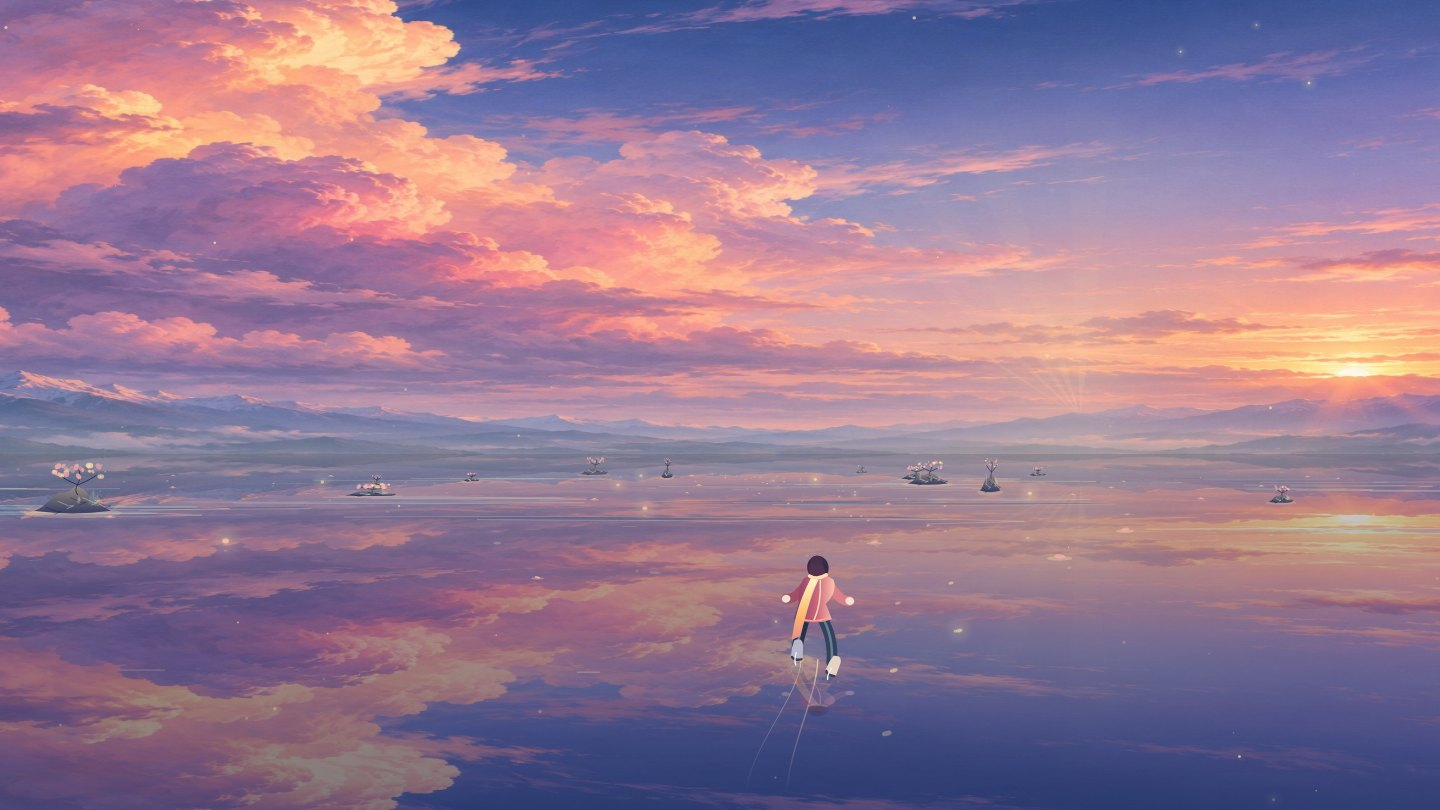
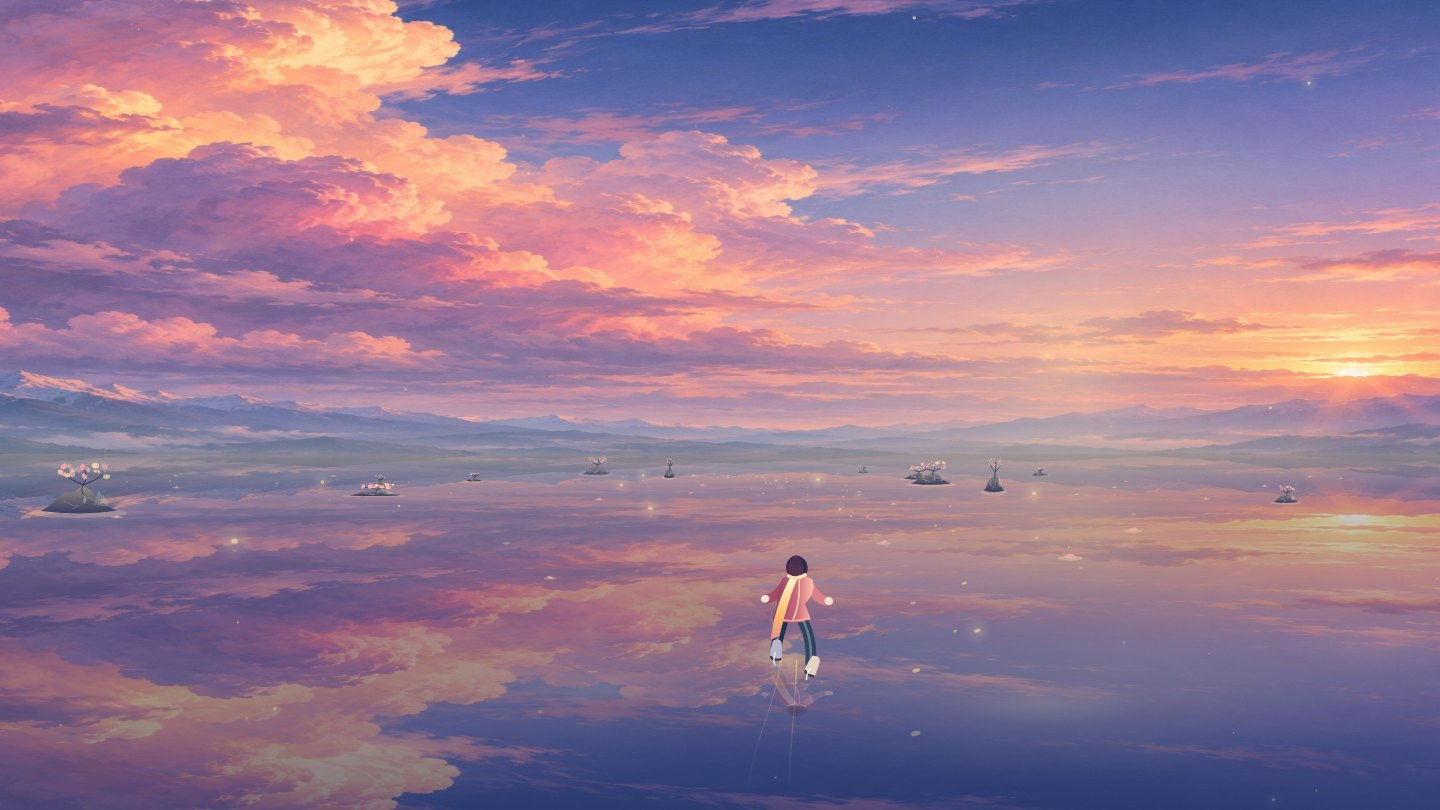
Soften steering and layer the ice, fog and aurora

diff --git a/index.html b/index.html
@@ -357,7 +357,9 @@ function ridge(c,w,h,p,layer) {
   const gradient=c.createLinearGradient(0,h*(1-depth*1.4),0,h);
   gradient.addColorStop(0,rgba(blend(p.hills,p.line,.56-layer*.17),1));
   gradient.addColorStop(1,rgba(blend(p.hills,p.line,.78-layer*.19),1));
+  c.globalAlpha=.57+layer*.06;
   c.fillStyle=gradient;c.fill();
+  c.globalAlpha=1;
 }
 function paintSky(p) {
   const b=document.createElement("canvas"), w=b.width=sky.width, h=b.height=sky.height, c=b.getContext("2d");
@@ -385,43 +387,51 @@ function paintSky(p) {
     }
     skyDetail(c,w,h,p);
     for(let i=0;i<3;i++) ridge(c,w,h,p,i);
+    for(let i=0;i<10;i++){
+      const x=w*hash(i+320+p.seed), y=h*(.81+hash(i+621)*.20), r=w*(.12+hash(i+312)*.21);
+      c.save();c.translate(x,y);c.scale(1,.10+hash(i+901)*.14);
+      bloom(c,0,0,r,i%2?p.light:p.cloud,.19+hash(i+11)*.13);c.restore();
+    }
   }
   return b;
 }
 function drawCached(b, alpha){
   if(!b||alpha<=0)return;
   sk.globalAlpha=alpha;
-  const shift=Math.sin(position*.0011)*sky.width*.105;
+  const shift=-position*sky.width*.00013;
   sk.drawImage(b,-sky.width*.12+shift,0,sky.width*1.24,sky.height);
   sk.globalAlpha=1;
 }
+let auroraTextures;
 function nightElements(p,a){
   if(a<=0 || (p.index!==1 && p.index!==3)) return;
   const w=sky.width,h=sky.height;
   for(let i=0;i<120;i++){
-    const x=wrap(hash(i*3+p.seed)*w-position*.11,w),y=hash(i*3+1)*h*.78;
+    const x=wrap(hash(i*3+p.seed)*w-position*.027,w),y=hash(i*3+1)*h*.78;
     const light=(.27+.65*Math.pow(.5+.5*Math.sin(t*(.34+hash(i)*.75)+i),3))*a;
     ellipse(sk,x,y,.45+hash(i+10)*1.15,.45+hash(i+10)*1.15,rgba(p.light,light));
   }
   if(p.index===1){
     sk.globalCompositeOperation="screen";
+    auroraTextures??=[[99,237,191],[171,116,246],[104,184,248]].map(color=>{
+      const texture=document.createElement("canvas");
+      texture.width=texture.height=128;
+      bloom(texture.getContext("2d"),64,64,64,color,1);
+      return texture;
+    });
     for(let band=0;band<3;band++){
-      const gx=sk.createLinearGradient(0,h*.07,0,h*.64);
-      gx.addColorStop(0,rgba(p.light,0));
-      gx.addColorStop(.46,rgba(band===1?[135,112,255]:[95,255,188],.31*a));
-      gx.addColorStop(.8,rgba([102,236,218],.12*a));gx.addColorStop(1,rgba(p.light,0));
-      sk.fillStyle=gx;sk.beginPath();
-      for(let x=0;x<=w+12;x+=12){
-        const y=h*(.18+band*.06+.09*Math.sin(x/w*6+t*.18+band)+.04*Math.sin(x/w*14-t*.17));
-        if(x===0)sk.moveTo(x,y);else sk.lineTo(x,y);
+      const steps=34, height=h*(.103+band*.018);
+      for(let i=0;i<=steps;i++){
+        const u=i/steps, x=w*u;
+        const phase=u*6.8+t*.15+band*1.5;
+        const y=h*(.23+band*.055+.105*Math.sin(phase)+.043*Math.sin(u*13-t*.12+band));
+        const shimmer=.57+.43*Math.sin(u*21+band+t*.21)**2;
+        const radius=w*(.057+hash(i+band*13)*.019);
+        sk.globalAlpha=a*shimmer*.24;
+        sk.drawImage(auroraTextures[band],x-radius,y-height,radius*2,height*2);
       }
-      for(let x=Math.ceil(w/12)*12;x>=0;x-=12){
-        const y=h*(.33+band*.06+.12*Math.sin(x/w*6+t*.18+band)+.04*Math.sin(x/w*14-t*.17));
-        sk.lineTo(x,y);
-      }
-      sk.closePath();sk.fill();
     }
-    sk.globalCompositeOperation="source-over";
+    sk.globalAlpha=1;sk.globalCompositeOperation="source-over";
   }
 }
 function drawSky(light) {
@@ -430,25 +440,16 @@ function drawSky(light) {
   nightElements(previous,1-transition);
   nightElements(current,transition);
   const sw=sky.width,sh=sky.height;
-  const lx=sw*(.72+.105*Math.sin(t*.028-position*.0005)), ly=sh*(.76+.085*Math.sin(t*.044));
+  const lx=sw*(.72+.105*Math.sin(t*.028-position*.00018)), ly=sh*(.76+.085*Math.sin(t*.044));
   bloom(sk,lx,ly,sh*.72,light,.24+.14*Math.sin(t*.23));
   if((current.index===0 && !art.naturalWidth) || current.index===2){
     bloom(sk,lx,ly,sh*.15,light,.53*transition);
     ellipse(sk,lx,ly,sh*.015,sh*.015,rgba(light,.58*transition));
   }
   if(current.index===0 || current.index===2){
-    const warm=transition*(.14+.09*Math.sin(t*.17));
-    const rays=sk.createLinearGradient(0,sh*.17,0,sh);
-    rays.addColorStop(0,rgba(light,0));
-    rays.addColorStop(.7,rgba(light,warm*.27));
-    rays.addColorStop(1,rgba(light,warm));
-    sk.fillStyle=rays;
-    for(let i=0;i<5;i++){
-      const beam=lx+(i-2)*sw*.11+Math.sin(t*.09+i)*sw*.035;
-      sk.beginPath();sk.moveTo(lx+12,ly+sh*.13);
-      sk.lineTo(beam-sw*.19,sh*.14);sk.lineTo(beam-sw*.15,sh*.17);
-      sk.closePath();sk.fill();
-    }
+    const warm=transition*(.12+.04*Math.sin(t*.17));
+    sk.save();sk.translate(lx,ly);sk.rotate(-.31);sk.scale(1,.42);
+    bloom(sk,0,0,sh*.92,light,warm);sk.restore();
   }
   const fog=sk.createLinearGradient(0,sh*.81,0,sh);
   const mist=routeMode
@@ -472,14 +473,25 @@ function drawWater(light,water) {
   const veil=ctx.createLinearGradient(0,horizon,0,H);
   veil.addColorStop(0,rgba(light,.09));veil.addColorStop(.43,rgba(water,.19));veil.addColorStop(1,rgba(water,.46));
   ctx.fillStyle=veil;ctx.fillRect(0,horizon,W,deep);
+  const coolTint=[110,148,255], warmTint=[242,167,197];
+  const pearl=blend(light,blend(
+    previous.index%2?coolTint:warmTint,current.index%2?coolTint:warmTint,smooth(transition)),.48);
+  for(let i=0;i<6;i++){
+    const x=W*(.04+i*.186+.06*Math.sin(t*.13+i)), y=horizon+deep*(.22+hash(i+86)*.64);
+    const r=W*(.16+hash(i+442)*.10);
+    ctx.save();ctx.translate(x,y);ctx.scale(1,.16+hash(i+49)*.17);
+    bloom(ctx,0,0,r,i%2?pearl:light,.10+hash(i+341)*.12);ctx.restore();
+  }
   for(let i=0;i<100;i++){
     const z=65+wrap(hash(i*9)*1400-distance,1400), depth=68/z;
     const y=horizon+depth*deep;
-    const x=W*.54+(hash(i*9+1)*650-325-lateral)*depth*W*.018-heading*W*.055*depth;
-    const width=(13+hash(i*9+3)*94)*depth;
-    ctx.fillStyle=rgba(light,(.09+hash(i*9+4)*.24)*smooth((1450-z)/410));
-    ctx.fillRect(x,y,width,.25+depth*1.55);
+    const x=W*.54+(hash(i*9+1)*650-325-lateral*.61)*depth*W*.018;
+    const width=(3+hash(i*9+3)*24)*depth;
+    ellipse(ctx,x,y,width,.25+depth*.9,rgba(light,(.05+hash(i*9+4)*.15)*smooth((1450-z)/410)));
   }
+  const seam=ctx.createLinearGradient(0,horizon,0,horizon+deep*.095);
+  seam.addColorStop(0,rgba(light,.14));seam.addColorStop(1,rgba(light,0));
+  ctx.fillStyle=seam;ctx.fillRect(0,horizon,W,deep*.095);
   iceDetails(light,water);
   drawWaterMarkers(light);
   ctx.restore();
@@ -495,44 +507,29 @@ function drawWaterMarkers(light){
     if(i%6===0) bloom(ctx,point.x,point.y,4+s*15,light,alpha*.55);
     ellipse(ctx,point.x,point.y,.6+s*4,.4+s*1.9,rgba(light,alpha),-.24);
   }
-  // Frost streaks widen as they approach the skater.
-  for(let i=0;i<18;i++){
-    const offset=i*69-distance, z=62+wrap(offset,1242);
-    const key=i+Math.floor(offset/1242)*18;
-    const point=project((hash(key+316)-.5)*570,z), s=point.scale;
-    const span=24+s*(45+hash(key+52)*140);
-    const alpha=smooth((z-62)/38)*smooth((1090-z)/650)*(.13+hash(key+91)*.25);
-    const glint=ctx.createLinearGradient(point.x-span,0,point.x+span,0);
-    glint.addColorStop(0,rgba(light,0));glint.addColorStop(.44,rgba(light,alpha));glint.addColorStop(1,rgba(light,0));
-    ctx.beginPath();ctx.moveTo(point.x-span,point.y+s*5);
-    ctx.quadraticCurveTo(point.x,point.y-s*7,point.x+span,point.y+s*3);
-    ctx.lineWidth=.45+s*1.55;ctx.strokeStyle=glint;ctx.stroke();
-  }
+
 }
 const iceTints=[[135,188,211],[115,185,189],[178,194,243],[103,124,216]];
 function iceDetails(light,water){
   const tint=blend(iceTints[previous.index],iceTints[current.index],smooth(transition));
   const lit=blend(tint,light,.45), shaded=blend(water,tint,.28);
-  // Each polygon is anchored in world space, so all its edges approach together.
-  for(let i=0;i<44;i++){
-    const period=840, offset=hash(i+271)*period-distance;
-    const z=76+wrap(offset,period);
-    const seed=i+Math.floor(offset/period)*37;
-    const x=(hash(seed+391)-.5)*740, size=19+hash(seed+514)*50;
-    const points=[[-1,17],[-.54,-7],[.24,-19],[.91,-3],[.81,18],[-.27,25]].map(([dx,dz])=>project(x+dx*size,z+dz*.55));
-    const [a,b,c,d,e,f]=points;
-    if(Math.max(a.x,b.x,c.x,d.x,e.x,f.x)<0||Math.min(a.x,b.x,c.x,d.x,e.x,f.x)>W)continue;
-    const opacity=smooth((z-76)/45)*smooth((1600-z)/890);
-    ctx.beginPath();ctx.moveTo(a.x,a.y);
-    for(const p of points.slice(1))ctx.lineTo(p.x,p.y);
-    ctx.closePath();
-    ctx.fillStyle=rgba(i%3?shaded:tint,opacity*(i%3?.31:.27));ctx.fill();
-    ctx.beginPath();ctx.moveTo(b.x,b.y);ctx.lineTo(c.x,c.y);ctx.lineTo(d.x,d.y);
-    ctx.strokeStyle=rgba(lit,opacity*.68);ctx.lineWidth=.38+c.scale*.65;ctx.stroke();
-    if(i%2===0){
-      const tip=project(x+size*1.12,z-13), branch=project(x+size*.81,z-25);
-      ctx.beginPath();ctx.moveTo(a.x,a.y);ctx.lineTo(f.x,f.y);ctx.lineTo(d.x,d.y);ctx.lineTo(tip.x,tip.y);ctx.lineTo(branch.x,branch.y);
-      ctx.strokeStyle=rgba(light,opacity*.44);ctx.stroke();
+  // Soft patches sit beneath the reflection and move with the ice.
+  for(let i=0;i<31;i++){
+    const period=1100, offset=hash(i+271)*period-distance;
+    const z=69+wrap(offset,period), seed=i+Math.floor(offset/period)*37;
+    const x=(hash(seed+391)-.5)*710, p=project(x,z);
+    const radius=(42+hash(seed+514)*103)*p.scale;
+    if(p.x+radius<0||p.x-radius>W)continue;
+    const opacity=smooth((z-69)/41)*smooth((1130-z)/710);
+    const color=i%3===0?lit:i%3===1?tint:shaded;
+    ctx.save();ctx.translate(p.x,p.y);ctx.scale(1,.13+hash(seed+604)*.13);
+    bloom(ctx,0,0,radius,color,opacity*(.13+hash(seed+229)*.14));ctx.restore();
+    if(i%6===0 && z<270){
+      const left=project(x-16,z+13);
+      const fork=project(x+5,z-5);
+      const end=project(x+19,z-14);
+      ctx.beginPath();ctx.moveTo(left.x,left.y);ctx.quadraticCurveTo(p.x,p.y,fork.x,fork.y);ctx.lineTo(end.x,end.y);
+      ctx.strokeStyle=rgba(lit,opacity*.22);ctx.lineWidth=.6+p.scale*.75;ctx.stroke();
     }
   }
   for(let i=0;i<60;i++){
@@ -544,10 +541,14 @@ function iceDetails(light,water){
     const a=fade*(.14+hash(seed+581)*.29);
     const width=(1.6+hash(seed+318)*11)*s;
     ellipse(ctx,p.x,p.y,width,.7+s*1.3,rgba(i%4?lit:light,a),-.25+hash(seed)*.45);
-    if(i%8===0){
-      ctx.beginPath();ctx.moveTo(p.x-2.3*width,p.y);ctx.lineTo(p.x+2.3*width,p.y);
-      ctx.moveTo(p.x,p.y-width*.6);ctx.lineTo(p.x,p.y+width*.6);
-      ctx.strokeStyle=rgba(light,a*.8);ctx.lineWidth=.65;ctx.stroke();
+    if(i%7===0 && s>.16){
+      bloom(ctx,p.x,p.y,6+s*18,lit,a*.62);
+      for(let j=0;j<5;j++){
+        const angle=hash(seed+j*19)*TAU, spread=(2+hash(seed+j+18)*19)*s;
+        const glow=j%2?lit:light;
+        ellipse(ctx,p.x+Math.cos(angle)*spread,p.y+Math.sin(angle)*spread*.43,
+          .42+s*.65,.34+s*.48,rgba(glow,a*.91));
+      }
     }
   }
 }
@@ -559,7 +560,7 @@ function shoreDetail(width,tall,seed,light,water,petals,cloudSea){
     const x=width*(-.7+i*.32), y=-tall*(.16+.40*Math.sin(i*Math.PI/5));
     ctx.beginPath();ctx.moveTo(x,y);ctx.lineTo(x+width*.28,y+tall*.19);
     ctx.lineTo(x+width*.41,y+tall*.19);ctx.lineTo(x+width*.23,y+tall*.31);
-    ctx.strokeStyle=rgba(i%2?frost:shade,.58);ctx.lineWidth=.8;ctx.stroke();
+    ctx.strokeStyle=rgba(i%2?frost:shade,.28);ctx.lineWidth=.8;ctx.stroke();
   }
   if(petals>.06){
     const trunk=width*.14, top=-tall*1.66;
@@ -603,10 +604,7 @@ function skyDetail(c,w,h,p){
       bloom(c,0,0,r,blend(p.shadow,p.cloud,.35+f*.38),(.13+f*.12)*(cold?.8:1));
       c.restore();
     }
-    const edge=c.createLinearGradient(x-span*.5,0,x+span*.5,0);
-    edge.addColorStop(0,rgba(p.light,0));edge.addColorStop(.48,rgba(p.light,cold?.12:.27));edge.addColorStop(1,rgba(p.light,0));
-    c.strokeStyle=edge;c.lineWidth=.9;
-    c.beginPath();c.moveTo(x-span*.5,y);c.bezierCurveTo(x-span*.25,y-height*.47,x+span*.19,y+height*.14,x+span*.5,y-height*.16);c.stroke();
+
   }
   if(cold){
     const mx=w*.81,my=h*.24,r=h*.077;
@@ -625,7 +623,7 @@ function cloudBanks(c,w,h,light,mist) {
   const cloudSea=routeMode?smooth((routeDistance-1450)/530)*(1-smooth((routeDistance-2300)/570)):0;
   for(let i=0;i<13;i++){
     const depth=hash(i+21);
-    const x=wrap(hash(i+4)*w+t*(3+depth*4)-position*(.07+depth*.26),w*1.58)-w*.29;
+    const x=wrap(hash(i+4)*w+t*(3+depth*4)-position*(.035+depth*.08),w*1.58)-w*.29;
     const y=h*(.62+depth*.45-cloudSea*hash(i+18)*.22);
     const radius=w*(.16+hash(i+8)*.17);
     c.save();c.translate(x,y);c.scale(1,.15+depth*.14);
@@ -646,13 +644,13 @@ function kun(c,x,y,size,tilt,alpha,light,shadow){
   c.bezierCurveTo(152,42,140,21,117,17);c.bezierCurveTo(79,13,66,29,24,40);
   c.bezierCurveTo(-29,57,-118,46,-144,9);c.closePath();
   c.fillStyle=skin;c.fill();
-  c.strokeStyle=rgba(light,.69);c.lineWidth=1.2;c.stroke();
+  c.strokeStyle=rgba(light,.26);c.lineWidth=.85;c.stroke();
   c.beginPath();c.moveTo(-44,18);c.bezierCurveTo(-13,24,-11,45,-25,61);
   c.bezierCurveTo(-40,78,-58,84,-81,81);c.bezierCurveTo(-64,63,-67,47,-68,32);
-  c.closePath();c.fillStyle=skin;c.fill();c.strokeStyle=rgba(light,.28);c.stroke();
+  c.closePath();c.fillStyle=skin;c.fill();c.strokeStyle=rgba(light,.15);c.stroke();
   for(let j=0;j<4;j++){
     c.beginPath();c.moveTo(-139,13+j*3);c.bezierCurveTo(-113,23+j*5,-96,26+j*5,-71,25+j*4);
-    c.strokeStyle=rgba(light,.34-j*.05);c.lineWidth=.85;c.stroke();
+    c.strokeStyle=rgba(light,.23-j*.04);c.lineWidth=.85;c.stroke();
   }
   ellipse(c,-105,-1,3.6,2.8,rgba(shadow,.9));
   ellipse(c,-106,-2,1.4,1.1,rgba(light,.9));
@@ -669,7 +667,7 @@ function drawSkyLife(light) {
   const preset=(current.whale?smooth(transition):0)+(previous.whale?1-smooth(transition):0);
   const size=Math.min(w/770,h/380);
   if(alpha>.001){
-    const x=w*(.73-.15*smooth((travel-1510)/700)) - lateral*w*.00043;
+    const x=w*(.73-.15*smooth((travel-1510)/700)) - position*w*.00010;
     const y=h*(.97-.55*ascent+.035*Math.sin(t*.7));
     kun(sk,x,y,size*(.62+.54*ascent),-.17+.14*ascent,alpha*.91,light,[29,36,74]);
     for(let i=0;i<38;i++){
@@ -699,14 +697,14 @@ function drawSkyLife(light) {
 }
 function project(x,z) {
   const near=62/z, deep=H-horizon;
-  return {x:W*.54+(x-lateral)*near*W*.018-heading*W*.075*near,
+  return {x:W*.54+(x-lateral*.61)*near*W*.018,
     y:horizon+near*deep, scale:near*clamp(Math.min(W/850,H/580),.6,1.65)};
 }
 function drawRouteScenery(light,water){
   const deep=H-horizon,travel=routeDistance;
   const shadow=routeMode?smooth((travel-665)/265)*(1-smooth((travel-980)/440)):0;
   if(shadow>.001){
-    kun(ctx,W*(.6+Math.sin(t*.46)*.06)-lateral*W*.001,
+    kun(ctx,W*(.6+Math.sin(t*.46)*.06)-position*W*.00028,
       horizon+deep*.46,Math.min(W/590,H/445),.07,shadow*.69,
       blend(water,light,.24),blend(water,[12,16,49],.75));
   }
@@ -753,10 +751,17 @@ function drawRouteScenery(light,water){
   }
 }
 function particles(p,light){
-  const n=reduced?30:86;
+  const n=reduced?25:76;
+  const haze=reduced?5:12;
+  for(let i=0;i<haze;i++){
+    const z=hash(i+750), phase=hash(i+634)+t*(.022+z*.015);
+    const x=wrap(phase,1.2)*W-W*.1, y=H*(.26+hash(i+909)*.66)+Math.sin(t*.31+i)*7;
+    const color=blend(light,p.cloud,.47+z*.26);
+    bloom(ctx,x,y,8+z*17,color,.12+.09*Math.sin(t*.73+i));
+  }
   for(let i=0;i<n;i++){
     const z=hash(i*9+2), speed=.005+z*.015;
-    const x=wrap(hash(i*9)*W+t*(4+z*12)-position*z*.43,W+30)-15;
+    const x=wrap(hash(i*9)*W+t*(4+z*12)-position*z*.15,W+30)-15;
     const y=wrap(hash(i*9+1)*H-t*(p.index===2?-9:speed*H),H+30)-15;
     const flicker=.16+.55*Math.pow(.5+.5*Math.sin(t*(.7+z)+i*4),2);
     if(p.index===2&&i%3===0){
@@ -780,9 +785,9 @@ function trail(x,y,scale,light){
   const speed=Math.max(0,velocity);
   if(speed<.035)return;
   const length=Math.min(H*.27,28+speed*69);
-  const bend=(heading*.45+edgeLean*.48)*length;
+  const bend=(heading*.19+edgeLean*.24)*length;
   const g=ctx.createLinearGradient(0,y,0,y+length);
-  g.addColorStop(0,rgba(light,.75));g.addColorStop(.28,rgba(light,.4));g.addColorStop(1,rgba(light,0));
+  g.addColorStop(0,rgba(light,.57));g.addColorStop(.28,rgba(light,.21));g.addColorStop(1,rgba(light,0));
   ctx.save();ctx.globalAlpha=clamp(speed*.72,0,1);ctx.strokeStyle=g;
   for(const side of [-1,1]){
     const start=x+side*7*scale, end=start-bend+side*12;
@@ -894,9 +899,9 @@ function render(ms) {
   const a=smooth(transition);
   const light=blend(previous.light,current.light,a), water=blend(previous.water,current.water,a);
   const turn=Number(keys.has("ArrowRight")||keys.has("KeyD"))-Number(keys.has("ArrowLeft")||keys.has("KeyA"));
-  const target=start?clamp(turn+steer,-1,1):.08;
-  heading=lerp(heading,target,1-Math.exp(-dt*3));
-  steer*=Math.exp(-dt*.85);
+  const target=start?clamp(turn+steer,-1,1):0;
+  heading=lerp(heading,target,1-Math.exp(-dt*(target?2.25:5.5)));
+  steer*=Math.exp(-dt*2.6);
   const forward=keys.has("ArrowUp")||keys.has("KeyW")||[...touchControls.values()].includes(1);
   const slow=keys.has("ArrowDown")||keys.has("KeyS")||[...touchControls.values()].includes(-1);
   const throttle=clamp(Number(forward)-Number(slow)+(drag?.throttle??0),-1,1);
@@ -910,8 +915,9 @@ function render(ms) {
     kick=Math.max(0,kick-dt*1.1);
   }
   if(!paused){
-    position+=heading*dt*149;
-    lateral=clamp(lateral+heading*dt*velocity*57,-142,142);
+    const sideSpeed=(reduced?9:17)*Math.min(1,velocity/.86);
+    lateral=clamp(lateral+heading*dt*sideSpeed,-118,118);
+    position=lerp(position,lateral,1-Math.exp(-dt*1.5));
     distance+=dt*velocity*(start?32:7);
     if(start&&routeMode) travelStory(dt);
   }
@@ -919,7 +925,7 @@ function render(ms) {
   drawSky(light);drawWater(light,water);
   drawRouteScenery(light,water);
   particles(current,light);
-  const px=W*.54+heading*W*.065;
+  const px=W*.54+heading*W*(reduced?.009:.022);
   const py=horizon+(H-horizon)*(.61-clamp((velocity-.84)*.047,-.09,.08));
   lights(light,px,py);
   const scale=clamp(Math.min(W/1020,H/680),.64,1.32);
@@ -1160,11 +1166,11 @@ canvas.addEventListener("pointerdown",event=>{
 canvas.addEventListener("pointermove",event=>{
   if(drag?.id!==event.pointerId)return;
   const change=event.clientX-drag.x;
-  steer=clamp(steer+change*.026,-1,1);drag.x=event.clientX;
+  steer=clamp(steer+change/Math.max(125,W*.20),-.78,.78);drag.x=event.clientX;
   drag.throttle=clamp((drag.startY-event.clientY)/65,-1,1);
 });
 for(const type of ["pointerup","pointercancel","lostpointercapture"]){
-  canvas.addEventListener(type,event=>{if(drag?.id===event.pointerId)drag=null;});
+  canvas.addEventListener(type,event=>{if(drag?.id===event.pointerId){drag=null;steer=0;}});
 }
 window.addEventListener("resize",resize);
 resize();

diff --git a/README.md b/README.md
@@ -16,7 +16,7 @@
 
 ## 跟着海棠滑行
 
-点「踏上冰面」后，你会缓缓向地平线滑去。一趟航程通常约两分钟。转向时身体会压向一侧，冰刀划出弧线，带起碎冰。加速时冰纹和岸边景物会从远处逼近，按住刹停可以留在原地。空格能蹬冰短暂提速。故事随滑行距离展开，海雾、天光和倒影会慢慢融进下一段风景。
+点「踏上冰面」后，你会缓缓向地平线滑去。一趟航程通常约两分钟。转向时身体会压向一侧，冰刀划出弧线，带起碎冰。横移会平缓启动，高速前滑时也不会突然加快横移，远景只会轻微移动。加速时冰纹和岸边景物会从远处逼近，按住刹停可以留在原地。空格能蹬冰短暂提速。故事随滑行距离展开，海雾、天光和倒影会慢慢融进下一段风景。冰面下有透光的霜斑，近处有随视角移动的细小冰晶，北冥的极光由几层渐淡的青紫光晕叠成。
 
 | 航程 | 路上会遇见什么 |
 | --- | --- |
